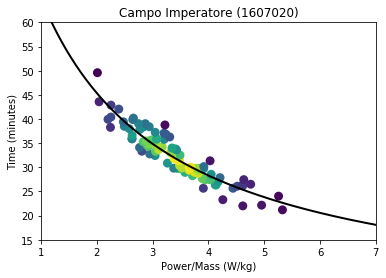
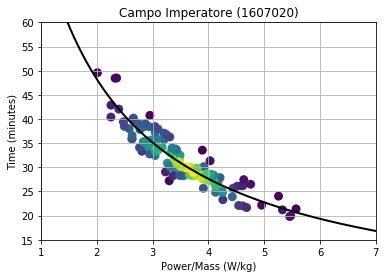
montevergine + gran sasso

Changed region(s): [[0.1244, 0.0863, 0.9948, 0.8345]]

diff --git a/_layouts/post.html b/_layouts/post.html
@@ -5,6 +5,19 @@ layout: default
 <article class="post">
 
   <script type="text/javascript" src="http://cdn.mathjax.org/mathjax/latest/MathJax.js?config=TeX-AMS-MML_HTMLorMML"></script>
+  <style>
+	table{
+	  border-collapse: collapse;
+	  border-spacing: 0;
+	  border:2px solid #ff0000;
+	}
+	th{
+	  border:2px solid #000000;
+	}
+	td{
+	  border:1px solid #000000;
+	}
+  </style>
 
   <h1>{{ page.title }}</h1>
 

diff --git a/_posts/2018-5-13-montevergine-gran-sasso.md b/_posts/2018-5-13-montevergine-gran-sasso.md
@@ -11,38 +11,66 @@ Perhaps intriguing is the level of performance we have seen out of the tradition
 
 What does this all mean? This is going to be a wide open Giro, and the winner will have certainly earned it. With that said, let's take a look at the Strava data from this weekend's two summit finishes, as well as estimate the performance of key riders on the climbs. For reference, an over of the climbs is given in [one of my entries](https://eddie-santos.github.io/giro-climbs/) from last week.
 
-### Montevergine
+## Montevergine
 
-Though long at 14.8 km, Montevergine proved not to be steep enough for the leaders to separate themselves, with a pack finish amongst the favorites. With that said, let's still take a look to see how time of completion maps to average power-to-mass over the climb to get an idea of their performances. As described in my [Giro climb summary entry](https://eddie-santos.github.io/giro-climbs/), power-to-mass for a rider up Montevergine can be described by their completion time given the equation
+Though long at 14.8 km, Montevergine [(Strava segment)](https://www.strava.com/segments/8296241) proved not to be steep enough for the leaders to separate themselves, with a pack finish amongst the favorites. With that said, let's still take a look to see how time of completion maps to average power-to-mass over the climb to get an idea of their performances. As described in my [Giro climb summary entry](https://eddie-santos.github.io/giro-climbs/), power-to-mass for a rider up Montevergine can be described by their completion time given the equation
 
-$$ \<power\>/mass = A/time + B$$
+$$ \frac{<power>}{mass} = \frac{14047 W/kg*s}{time (s)} + (-1.1574 W/kg)$$,
 
-The fit to the data is remarkably good, and so now the fun begins. We know that the group of favorites started the segment at more or less the same time, though differences in placement at the beginning and end of the segment can lead to modulations of a few seconds, in regards to Strava segment times. The equation obtained for estimating power-to-mass from time on the climb from fitting to the data, is given by:
+which is shown inverted in the following figure, as fit to Strava data using only results recorded with a power meter:
 
-*\<power\>/mass* = (14888 W/kg\*s)/(*time in seconds*) + (1.05431 W/kg)
+![montevergine]({{ "/images/giro2018/curves/montevergine.png" | absolute_url }})
 
-Combining this equation Strava times and the official results on the stage, we can infer the following results. Note that the rider masses were obtained from (in order) their Strava profiles, procyclingstats.com, or via Google searching.
+The results of this equation applied to the favorites is shown in the table below.
 
-| Place 	| Name               	| Stage time 	| Strava Etna time 	| Est. Etna time 	| Est. \<p\>/m (W/kg) 	| mass (kg) 	| Est. \<p\> (W)|
+| Place 	| Name               	| Stage time 	| Strava time 	    | Est. time 	    | Est. W/kg         	| mass (kg) 	| Est. power (W)|
 |-------	|--------------------	|------------	|------------------	|----------------	|-------------------	|---------------|--------------	|
-| 2     	| Simon Yates        	| 4:16:11    	|                  	| 34:25          	| 6.06              	| 59.65   	    | 360          	|
-| 3     	| Thibaut Pinot      	| +26\"       	| 34:51            	|                	| 5.97              	| 65      	    | 388          	|
-| 4     	| George Bennett     	| s.t.       	|                  	| 34:52          	| 5.97              	| 58      	    | 346          	|
-| 5     	| Domenico Pozzivivo 	| s.t.       	|                  	| 34:52          	| 5.97              	| 53      	    | 316          	|
-| 6     	| Miguel Angel Lopez 	| s.t.       	|                  	| 34:53          	| 5.96              	| 65      	    | 388          	|
-| 8     	| Tom Dumoulin       	| s.t.       	|                  	| 34:53          	| 5.96              	| 71      	    | 423          	|
-| 9     	| Fabio Aru          	| s.t.       	|                  	| 34:54          	| 5.96              	| 66      	    | 393          	|
-| 10    	| Chris Froome       	| s.t.       	|                  	| 34:54          	| 5.96              	| 68      	    | 405          	|
-| 12    	| Ben O'Connor       	| +43\"       	| 35:00            	| 35:06          	| 5.92              	| 66      	    | 391          	|
-| 16    	| Michael Woods      	| +57\"       	| 35:20            	|                	| 5.87              	| 63      	    | 370          	|
-| 21    	| Rohan Dennis       	| +1\'04\"     	|                  	| 35:27          	| 5.85              	| 71      	    | 415          	|
+| 1     	| Richard Carapaz       | 5:11:35    	|                  	| 31:03          	| 5.99              	| 62     	    | 371          	|
+| 3     	| Thibaut Pinot      	| +7"       	| 31:10            	|                	| 5.97              	| 65      	    | 387          	|
+| 5     	| Simon Yates     	    | s.t.       	|                  	| 31:10          	| 5.97              	| 59.65    	    | 355          	|
+| 6     	| Domenico Pozzivivo 	| s.t.       	|                  	| 31:11          	| 5.97              	| 53      	    | 316          	|
+| 7     	| Esteban Chavez     	| s.t.       	|                  	| 31:11          	| 5.96              	| 55      	    | 327          	|
+| 9     	| Mike Woods       	    | s.t.       	| 31:11             |               	| 5.96              	| 63      	    | 375          	|
+| 11    	| Tom Dumoulin          | s.t.       	|                  	| 31:12          	| 5.96              	| 71      	    | 423          	|
+| 13    	| Rohan Dennis       	| s.t.       	|                  	| 31:12          	| 5.96              	| 71      	    | 423          	|
+| 14    	| Miguel Angel Lopez    | s.t.       	|                	| 31:13          	| 5.96              	| 65      	    | 387          	|
+| 15    	| George Bennett      	| s.t.       	| 31:14            	|                	| 5.95              	| 58      	    | 345          	|
+| 20    	| Fabio Aru       	    | s.t.       	|                  	| 31:15          	| 5.95              	| 66      	    | 392          	|
+| 22        | Chris Froome          | s.t.          |                   | 31:15             | 5.95                  | 68            | 404           |   
 
-#### Discussion
+It's pretty amazing to see the power outputs were effectively the same as Etna, with the performances just about at 6 W/kg. I wouldn't be surprised if these numbers were just a tiny bit lower in reality, since the climb today probably offered a small amount of drafting. Still, it's amazing to see the consistency of threshold efforts across different climbs, and the level these athletes are at during this edition of the Giro. At this point, it's almost a game of who can repeat this performance over the course of the race, as any rider is prone to having a bad day on any particular day. Also amazing to see is the discrepancy in powers across the riders, given their differences in mass. Pozzovivo needed only 316 W to keep up, whereas Dumoulin and Dennis pushed out a massive 423 W, and it's differences like these why we see the likes of the latter two much more dominant in the long, flat time trials, where raw power counts for so much more.
 
-Overall, these results look pretty reasonable. Yates had an incredible performance of 6.06 W/kg, which is consistent with a clean performance of this caliber of athlete. His estimated raw power of 360 W, based on a self described mass of 131.5 lbs, is pretty good considering his diminuitive stature. The others finishing in the pack come in about 5.97 W/kg, which feels about right, considering that the two main favorites, Dumoulin and Froome, have appeared to in peak shape this Spring. Dumoulin's mass is a bit harder to find, but I'd guess he's about 71 kg, putting his power output at 423 W, and Froome at a noted race weight of 68 Kg, at 405 W. Froome's performance is fairly consistent with other power outputs we've seen from him: [414 W on the final climb](http://www.cyclingnews.com/news/team-sky-reveal-froomes-tour-de-france-data-from-stage-10/) of Stage 10 of the 2015 Tour de France, and expectedly lower given that he doesn't appear to be in top form. More than anything, Froome appears to be missing that top end speed used to attack rivals, and he's just using his massive engine to hang on right now. This makes sense given his plan to try to race into form during the final week of the Giro, and try to hold form into the Tour de France.
+## Campo Imperatore (Gran Sasso)
 
-Of these riders, only two (O'Connor & Woods) recorded their power performances on Strava, and they're a bit lower than those given here, however I have reason to suspect it's a problem with their power meters. For example, analyzing Wood's effort on the segment reveals that there was as 30" period at the end of the climb that he didn't record any cadence or power, which is more or less impossible when going uphill. It was likely a malfunction with his Vector pedals, or perhaps well known helicopter interference. If his 335W could be believed, it would correspend to a 5.3 W/kg performance, which would put him into the strong amateur racer bucket, of which he's way beyond.
+Gran Sasso turned out to be a decisive climb as noted above, Yates was able claw time over other favorites, notable Dumoulin and Froome, the latter of whom last over a minute in the finale. Though the climb is longer than the [Strava segment](https://www.strava.com/segments/1607020) I've chosen to analyze, I think it's more instructive to study the last section, as there is a relative lull in the longer segment. To study the efforts on this climb by fitting the Strava data to our representative climb equation, we obtain
 
-Thus far, Yates is looking like a serious challenger. He's really come into this race in great form, and this may be when we see him ascend from fringe contender to favorite in future races. It would be surprising if he doesn't manage to put time into Dumoulin and Froome during the coming climbs, notably Zoncolan, for which raw power means far less than power-to-mass, though he'll have to hope to put in enough to fend them off in the time trial.
+$$ \frac{<power>}{mass} = \frac{7752.3 W/kg*s}{time (s)} + (-0.67723 W/kg)$$,
 
-Stay tuned! This weekend holds two great climbing stages, and I'll post analysis shortly after the conclusion of each stage. 
+which is shown inverted in the following figure, as fit to Strava data using only results recorded with a power meter:
+
+![campo-imperatore]({{ "/images/giro2018/curves/campo-imperatore.png" | absolute_url }})
+
+The results of this equation applied to the favorites is shown in the table below.
+
+| Place 	| Name               	| Stage time 	| Strava time    	| Est. time     	| Est. W/kg          	| mass (kg) 	| Est. power (W)|
+|-------	|--------------------	|------------	|------------------	|----------------	|-------------------	|---------------|--------------	|
+| 1     	| Simon Yates           | 5:54:13    	|               	| 19:24          	| 5.98              	| 59.65   	    | 356          	|
+| 2     	| Thibaut Pinot      	| s.t.       	| 19:25            	|                	| 5.98              	| 65      	    | 388          	|
+| 3     	| Esteban Chavez     	| s.t.       	| 19:25            	|               	| 5.98              	| 55    	    | 328          	|
+| 4     	| Domenico Pozzivivo 	| +4"       	|                  	| 19:29          	| 5.97              	| 53      	    | 315          	|
+| 5     	| Richard Carapaz     	| s.t.       	|                  	| 19:30          	| 5.95              	| 62      	    | 368          	|
+| 7     	| George Bennett       	| +12"       	|                   | 19:41            	| 5.89              	| 58      	    | 341          	|
+| 8     	| Tom Dumoulin          | s.t.       	|                  	| 19:42          	| 5.88              	| 71      	    | 417          	|
+| 9     	| Miguel Angel Lopez    | s.t.       	|                	| 19:43          	| 5.88              	| 65      	    | 381          	|
+| 12    	| Mike Woods            | +36"       	| 19:59            	|               	| 5.79              	| 63      	    | 364          	|
+| 21    	| Rohan Dennis      	| +1'02"       	|                	| 20:26            	| 5.65              	| 71      	    | 400          	|
+| 23    	| Chris Froome       	| +1'07"       	|                  	| 20:31          	| 5.62              	| 68      	    | 382          	|
+| 24        | Fabio Aru             | +1'14"        |                   | 20:38             | 5.58                  | 66            | 368           |
+
+Wow. It's incredible to see the consistency of performance from climb-to-climb, with the day's first finisher always coming in right around 6 W/kg. Unlike the previous couple of climbs, Etna and Montevergine, in which all of the main contenders finished in the 5.9-6 W/kg range (except for Yates' incredible 6.06 W/kg Etna performance), Campo Imperatore was the first day in which riders were found out. Yates, the winner on the day, came in at 5.98 W/kg, consistent with the other performance, yet the big losers on the day, notably Froome, verifiably cracked. Froome, who had outputted dual performances at about 405 W (about 10 W than his notable performances at the Tour de France), only mustered 382 W today.
+
+The big takeaway from today's performances is that top end form isn't enough, rather it's consistency with top form that makes a grand tour champion. One bad day and you could very well have sacrificed your chances at the podium. While Yates as been remarkable, his performances haven't separated him all that much from the other contenders in terms of power-to-mass. Rather, maybe he had one really good day, but he's just been consistent at that top level thus far. Froome on the other hand, got found out. He didn't have it, perhaps for a lack of training, perhaps from stress via the media surrounding his legal case, or perhaps simply just a bad day. Either way, at 5.62 W/kg, there's no hiding he wasn't dropped by an extraordinary performance, rather, he may not be in the condition we've come to know him during July.
+
+Moreover, it's particularly gratifying to see results around 6 W/kg. Sure, you could argue this isn't the Tour de France so perhaps this isn't the cream of the crop, at least in terms of conditioning, but these are some of the perennial favorites, and they aren't producing values that we see in the Lance Armstrong era, which were approaching 7 W/kg. As a physicist and machine learning specialist, admittedly there is some wiggle room in these values, but in practice I've found them to be quite small, about 1% (+/- 5 W) or so at most. The equation is based off of physics calculations I've done, and instead of estimating hard-to-estimate parameters such as friction, cross-sectional area, and wind speed, I simply infer them by fitting my derived equation to actual data.
+
+Next up we have Monte Zoncolan on stage 14, and in my eyes promises to be the one of the two defining moments of this Giro, along with the time trial on stage 16. The climbers need to distance the likes of Dumoulin (let alone each other) to have a real chance at the title, Dumoulin has the ability to take minutes from them. At an absolutely brutal average gradient of 13%, Zoncolan will absolutely favor climbers with smaller weights, and my guess is that Dumoulin will lose around a minute to the likes of Yates, who I might expect to take the day given his form and his very slight stature. The real question is if a lead of 1-2 minutes will be enough to stay away in the time trial, as the climbs during the last week aren't formidable enough to offer a decisive advantage to the pure climbers. Either way, this should make for a close battle heading into Rome, and I'll be posting more updates along the way!
